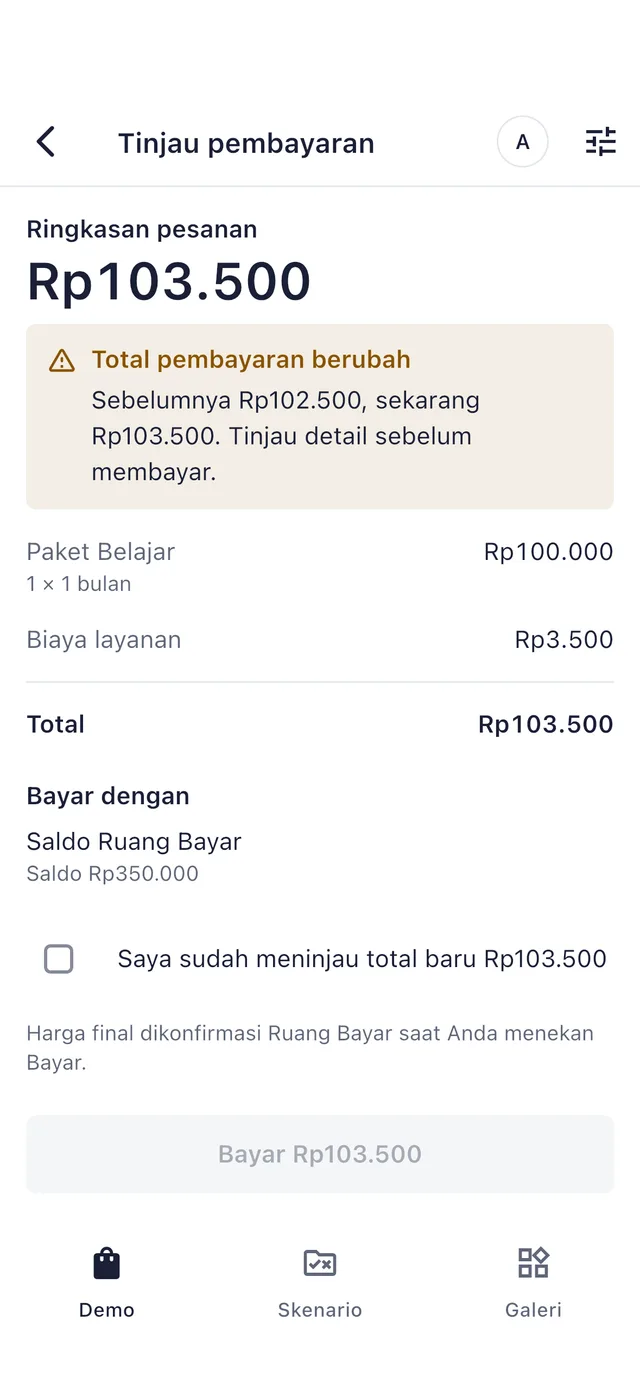
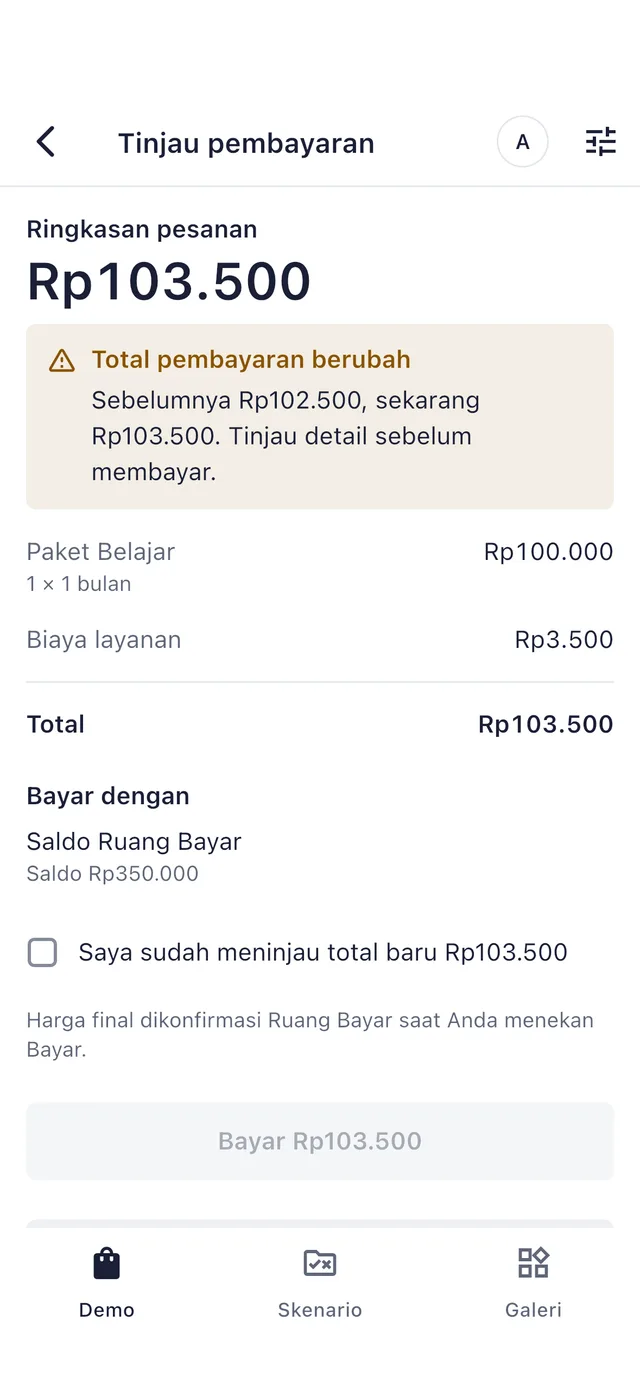
docs: finish phase 2A native proof and screenshot assets

Changed region(s): [[0.0312, 0.651, 0.9375, 0.7751], [0.3438, 0.8061, 0.6562, 0.8371]]

diff --git a/example/integration_test/screenshots_test.dart b/example/integration_test/screenshots_test.dart
@@ -67,6 +67,13 @@ void main() {
       c.reviewOrder();
       await c.confirm();
       await pumpUntil(tester, () => c.quote?.revision == 2 && !c.confirming);
+      if (look == 'light_200') {
+        await settle(tester);
+        await Scrollable.ensureVisible(
+          tester.element(find.byType(PaymentCheckbox)),
+          alignment: 0.5,
+        );
+      }
       await shot('requote', look);
 
       c = await runScenario(tester, app, 'P06');

diff --git a/example/integration_test/flow_test.dart b/example/integration_test/flow_test.dart
@@ -298,7 +298,7 @@ void main() {
     await settle(tester);
     expect(c.step, FlowStep.confirm);
 
-    await tapVisible(tester, find.text('I accept the new total of Rp103,500'));
+    await tapVisible(tester, find.byType(PaymentCheckbox));
     await tapVisible(tester, find.text('Pay Rp103,500'));
     await pumpUntil(tester, () => c.step == FlowStep.authorize);
     expect(c.authPhase, AuthorizationPhase.ready);

diff --git a/docs/decisions.md b/docs/decisions.md
@@ -244,7 +244,7 @@ No plan deviation; no library rendering changes in 1B.
 - Checkbox labels use label 15/20 instead of body 15/22, on the 16 dp content gutter with a 48 dp minimum.
 - Video loading stroke changes from 3 to 3.84; reduced-motion hourglass changes from 24 to 32. Its spinner is excluded from semantics because the status line announces loading.
 - Failed photo decoding uses the illustrated frame without a preview. The semantic label remains photo until Phase 4A.
-- Native verification is blocked: device_screenshot twice returned “Could not communicate with device support. Try refreshing devices.” after device inventory refresh. The baseline screenshots_test runner completed successfully after the initial status check and saved 30 before PNGs. Nine consent/reapproval/unavailable-method baseline captures were inspected; the 200% reapproval frame does not reach the checkbox and needs a scrolled capture in the next native pass. Native captures, regression image diffs, webp regeneration and flow_test remain outstanding; no visual parity claim is made.
+- Native proof completed on iPhone 16 / iOS 18.1: all three screenshot suites and all 14 flow tests pass. Captures were inspected in light, dark and 200% text; reapproval scrolls to the checkbox only at 200%. The flow locator uses PaymentCheckbox rather than obsolete consent copy. Below-status-bar regression differences are limited to generated timestamps and the live countdown; action tiles, checkout and choice controls are pixel-identical. WebP assets and documentation embeds are published with this change.
 
 Element counts (same host and synthetic workload, base → Phase 2A): history 847 → 862, confirmation 406 → 409, intro 344 → 346. RowShell and PaymentDivider each add a component element, without adding render objects or layout/paint passes. This is the documented exception to §12’s equal-or-lower element count criterion.
 
